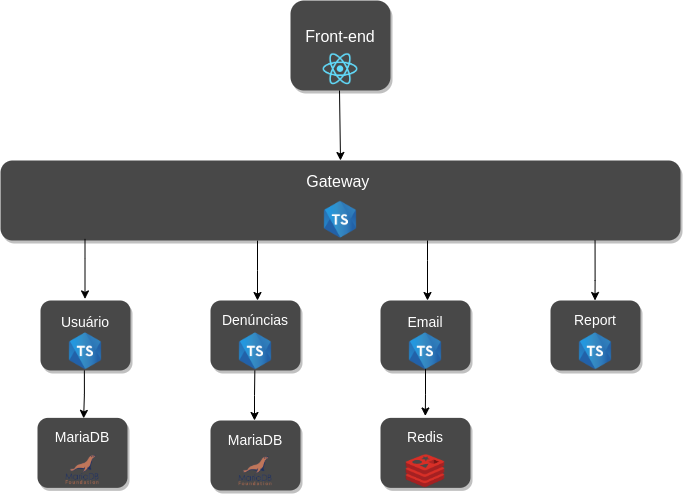
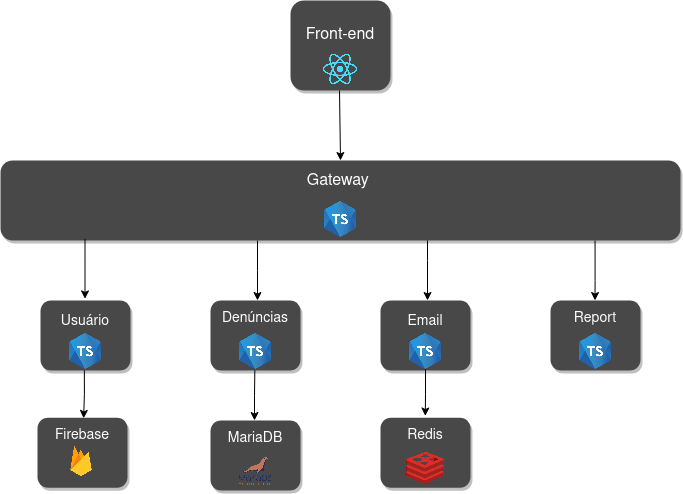
Update Doc with Firebase Infos

diff --git a/docs/projeto/documento-arquitetura.md b/docs/projeto/documento-arquitetura.md
@@ -10,6 +10,7 @@
 |[Brian Pina](https://github.com/DLBrianPina), [Arthur Matos](https://github.com/Arthur-Matos), <br/>[Gabriel Sabanai](https://github.com/Sabanai104) e [Saleh Kader](https://github.com/devsalula)|Tópicos: 3, 4.2 |05/03/2021|0.4|
 |[Saleh Kader](https://github.com/devsalula)| Tópicos: 1.4, 4.2, 4.3 | 05/03/2021 | 0.5|
 |[Saleh Kader](https://github.com/devsalula)| Tópicos: 1.3, 1.4, 2.0, 2.1, 4.3 | 23/03/2021 | 0.6|
+|[Saleh Kader](https://github.com/devsalula)| Tópicos: 1.3, 2.0, 2.1 | 23/03/2021 | 0.6|
 
 ## 1. Introdução
 
@@ -29,6 +30,7 @@ Esse documento tem como objetivo representar as decisões arquiteturais do Eccoa
 * API Gateway: O *gateway* de API é uma ferramenta de gerenciamento de APIs que fica entre o cliente e uma coleção de serviços de *back end*.
 * _Progressive Web App_ (PWA): são aplicações desenvolvidas para web que dão acesso a funcionalidades nativas, tendo como três pilares instabilidade, confiabilidade e capacidade.
 * _Feature Toggle_: Conjunto de Padrões de desenvolvimento de software, que ajudam equipes entregar novas funcionalidade de maneira mais segura e sem dependência entre elas.
+* BaaS: Backend as a Service é um recurso de desenvolvimento _Serveless_, onde se terceiriza o gerenciamento de infraestrutura e recursos para terceiros, dando maior liberdade para o desenvolvimento.
 
 ### 1.4 Referências
 > Parnas, D. L. On the Criteria To Be Used in Decomposing Systems into Modules. Comm. ACM (Dec., 1972) 1053-1056
@@ -86,6 +88,10 @@ Foram escolhidas as seguintes tecnologias de desenvolvimento:
 * **Typescript**: Typescript é um superconjunto de Javascript que insere na linguagem conceitos como tipagem estática, forte e inferida.
 
 * **Redis**: Redis é um banco de dados em memória altamente performático com funciona com base em estruturas de chave-valor. Utilizado para gerenciar a fila de mensagens no serviço de emails.
+
+**MariaDB**: MariaDB é um banco de dados relacional que surgiu de um fork do MySQL. Ele pertence a um seleto grupo de bancos de dados NewSQL, onde se utiliza o modelo de organização dos bancos relacionais, com algumas das maiores vantagens dos bancos NoSQL. 
+
+**Firebase**: Firebase é uma plataforma BaaS desenvolvida pelo Google, com o objetivo de prestar serviços qualificados em desenvolvimentos em nuvem. Na aplicação é utilizado para atuar com um servidor de usuários, criando um servidor completo de autenticação de usuário.
 
 * **Sass**: O Sass é uma linguagem de folha de estilo compilada para CSS, adicionando poder para a linguagem. Com o Sass é possível utilizar variáveis, regras de alinhamento, mixins, funções e várias outras funcionalidades.
 
